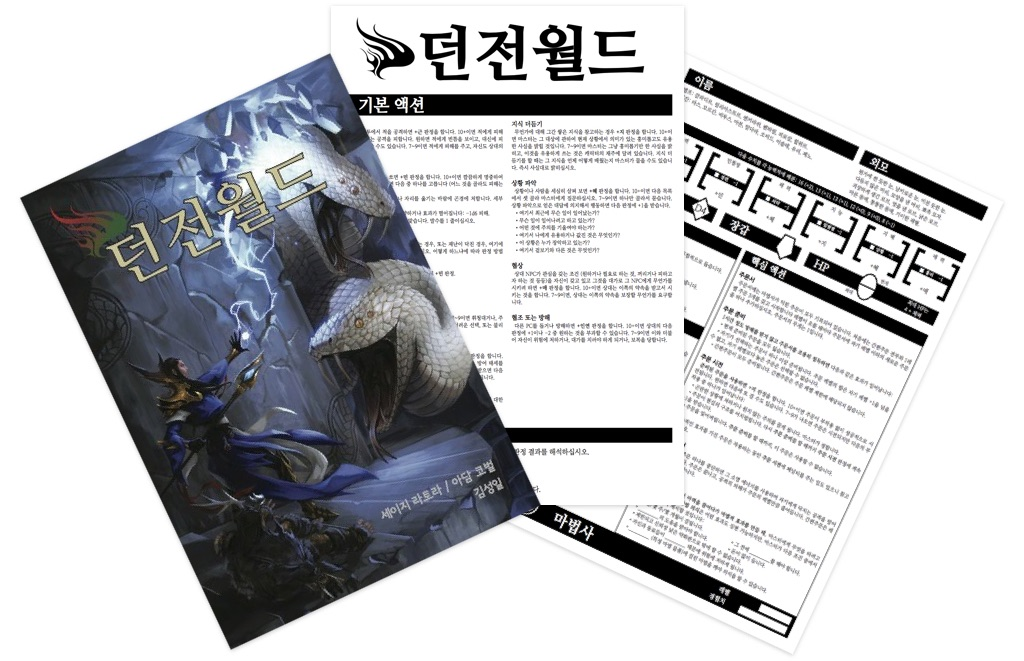
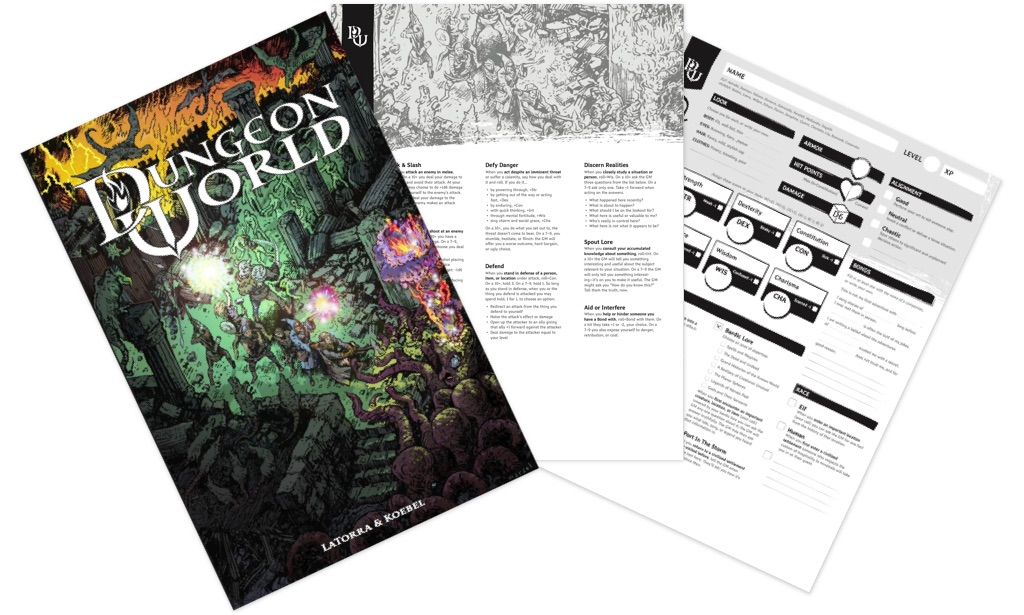
i18n dungeon world image

diff --git a/ko/features.html b/ko/features.html
@@ -45,7 +45,7 @@ ko: active
 <hr>
 <div class="row row-dungeon-world">
   <div class="col-md-6 col-sm-12 img-section">
-    <img src="/images/dw.jpeg" alt="Dungeon World" width="80%">
+    <img src="/images/dw_ko.jpeg" alt="Dungeon World" width="80%">
   </div>
   <div class="col-md-6 col-sm-12">
     <h2>던전월드 규칙에 기반한,<br>간결하며 깊이 있는 게임성</h2>
